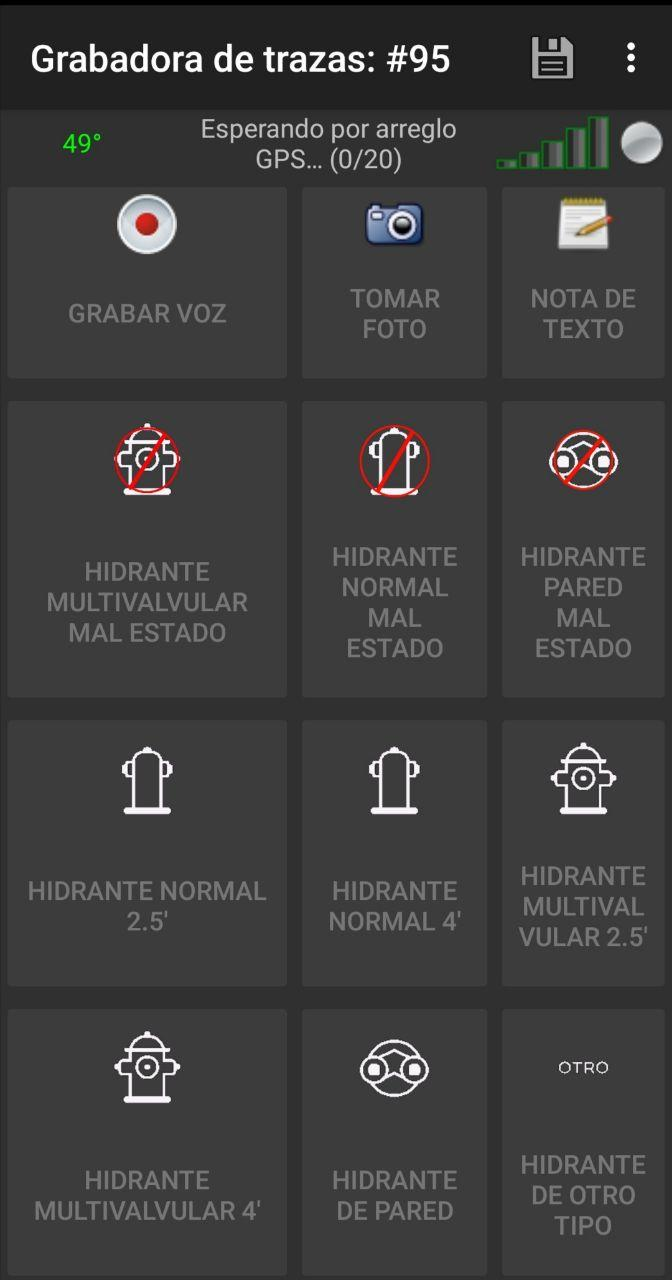
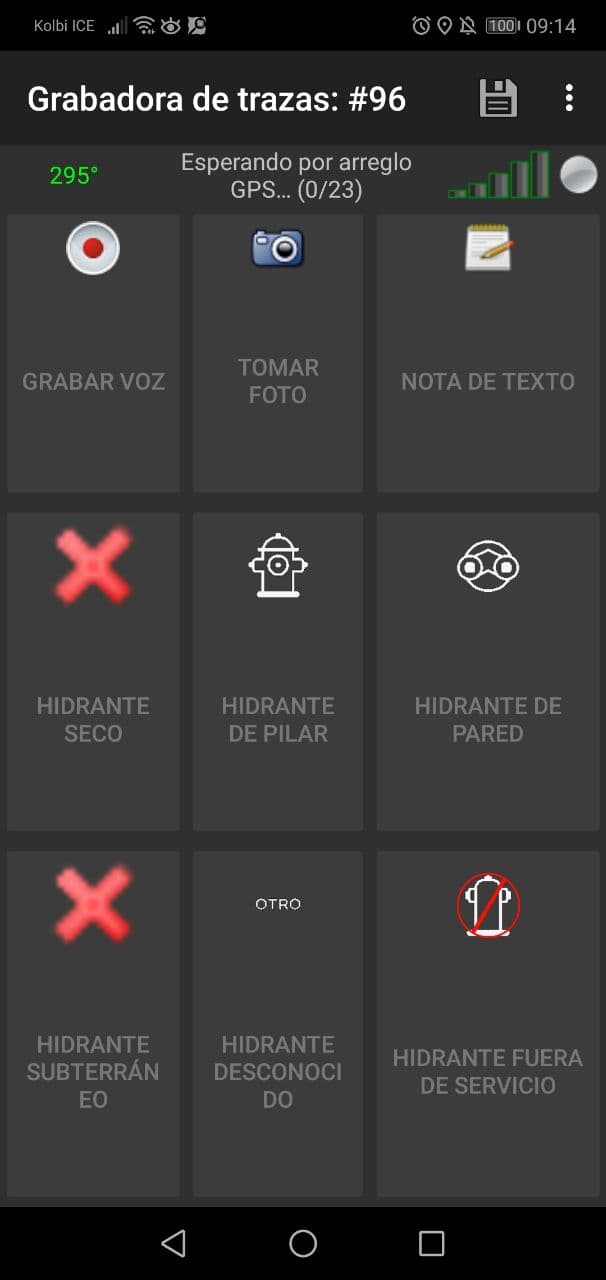
Add screenshot of Fire hydrants layout and update metadata

diff --git a/layouts/hidrantes/README.md b/layouts/hidrantes/README.md
@@ -1,7 +1,7 @@
 # Disposición de botones para captura de datos de hidrantes
 Una vez descargada la disposición de botones ser verá como la siguiente:
 
-(<u>Nota:</u> acá se debe insertar un pantallazo de la disposición de botones)
+<img src="captura_pantalla.jpg" style="zoom: 50%;" />
 
 
 
